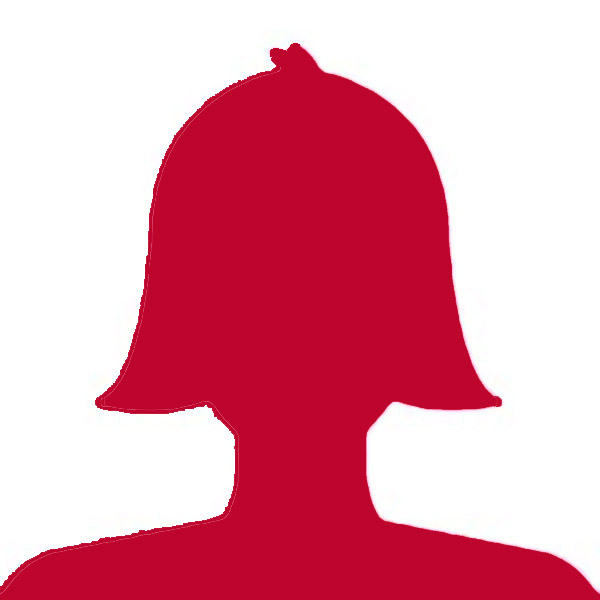
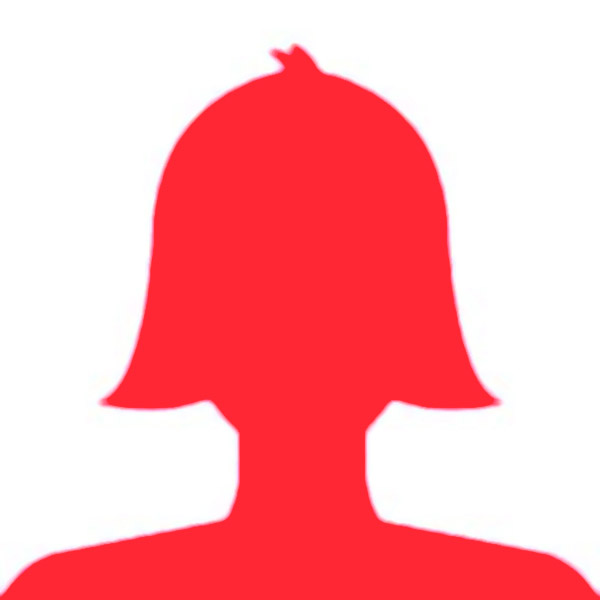
Revert "Colorcb"

diff --git a/prosopapp/app/templates/pages/chercheurs.html b/prosopapp/app/templates/pages/chercheurs.html
@@ -19,7 +19,7 @@ headerfooter en premier lieu, puis la mise en forme bootstrap ci-après-->
                             {% endif %}
                         </div>
                         <div class="col-sm-4" >
-                            <a href="{{ url_for('noticechercheur', individu_id=individu.id) }}"><h5 style="color:#bd052d ">{{individu.prenom}} {{ individu.nom }}</h5></a>
+                            <a href="{{ url_for('noticechercheur', individu_id=individu.id) }}"><h5 style="color:#fe2734 ">{{individu.prenom}} {{ individu.nom }}</h5></a>
                             <dl>
                              <dt>Diplome</dt><dd>{{individu.diplome.diplome_label}}</dd>
                             <dt>Pays de nationalité</dt><dd>{{individu.pays_nationalite.pays_label}}</dd>
@@ -37,7 +37,7 @@ headerfooter en premier lieu, puis la mise en forme bootstrap ci-après-->
                                  {% endfor  %}
                             </dl>
                         </div >
-                        <div class="col-sm-1" style="background-color:#bd052d ; max-width:4%"></div>
+                        <div class="col-sm-1" style="background-color:#fe2734 ; max-width:4%"></div>
                         </div>
                 </div>
             {% endfor %}

diff --git a/prosopapp/app/templates/pages/noticechercheur.html b/prosopapp/app/templates/pages/noticechercheur.html
@@ -6,7 +6,7 @@ différentes requêtes via des url_for (disséminées notamment dans la page che
         <div class="container">
             <div class="row" style="padding-top:5%;">
                 <div class ="col-1">
-                    <h4 style="color:#bd052d">{{individuu.prenom}} {{ individuu.nom }}</h4>
+                    <h4 style="color:#fe2734">{{individuu.prenom}} {{ individuu.nom }}</h4>
                 </div>
              <div class="row" style="margin-bottom: 2% ; padding-bottom: 2%; border-bottom:1px solid black">
                 <div class ="col-1">

diff --git a/prosopapp/app/templates/pages/accueil.html b/prosopapp/app/templates/pages/accueil.html
@@ -9,7 +9,7 @@
         <div class="col-7" >
         <h1 style="text-align:center">Bienvenue sur ProsoChartes !</h1>
             <p></p>
-            <h5 style="color: #bd052d; text-align: center">"ProsoChartes" est une application Web
+            <h5 style="color: #fe2734; text-align: center">"Prosopochartes" est une application Web
                 visant à la consultation et à l'exploration d'une base prosopographique de chercheuses
                 et chercheurs de <a href="http://www.chartes.psl.eu/">l'École Nationale des Chartes</a>.</h5>
         </div>
